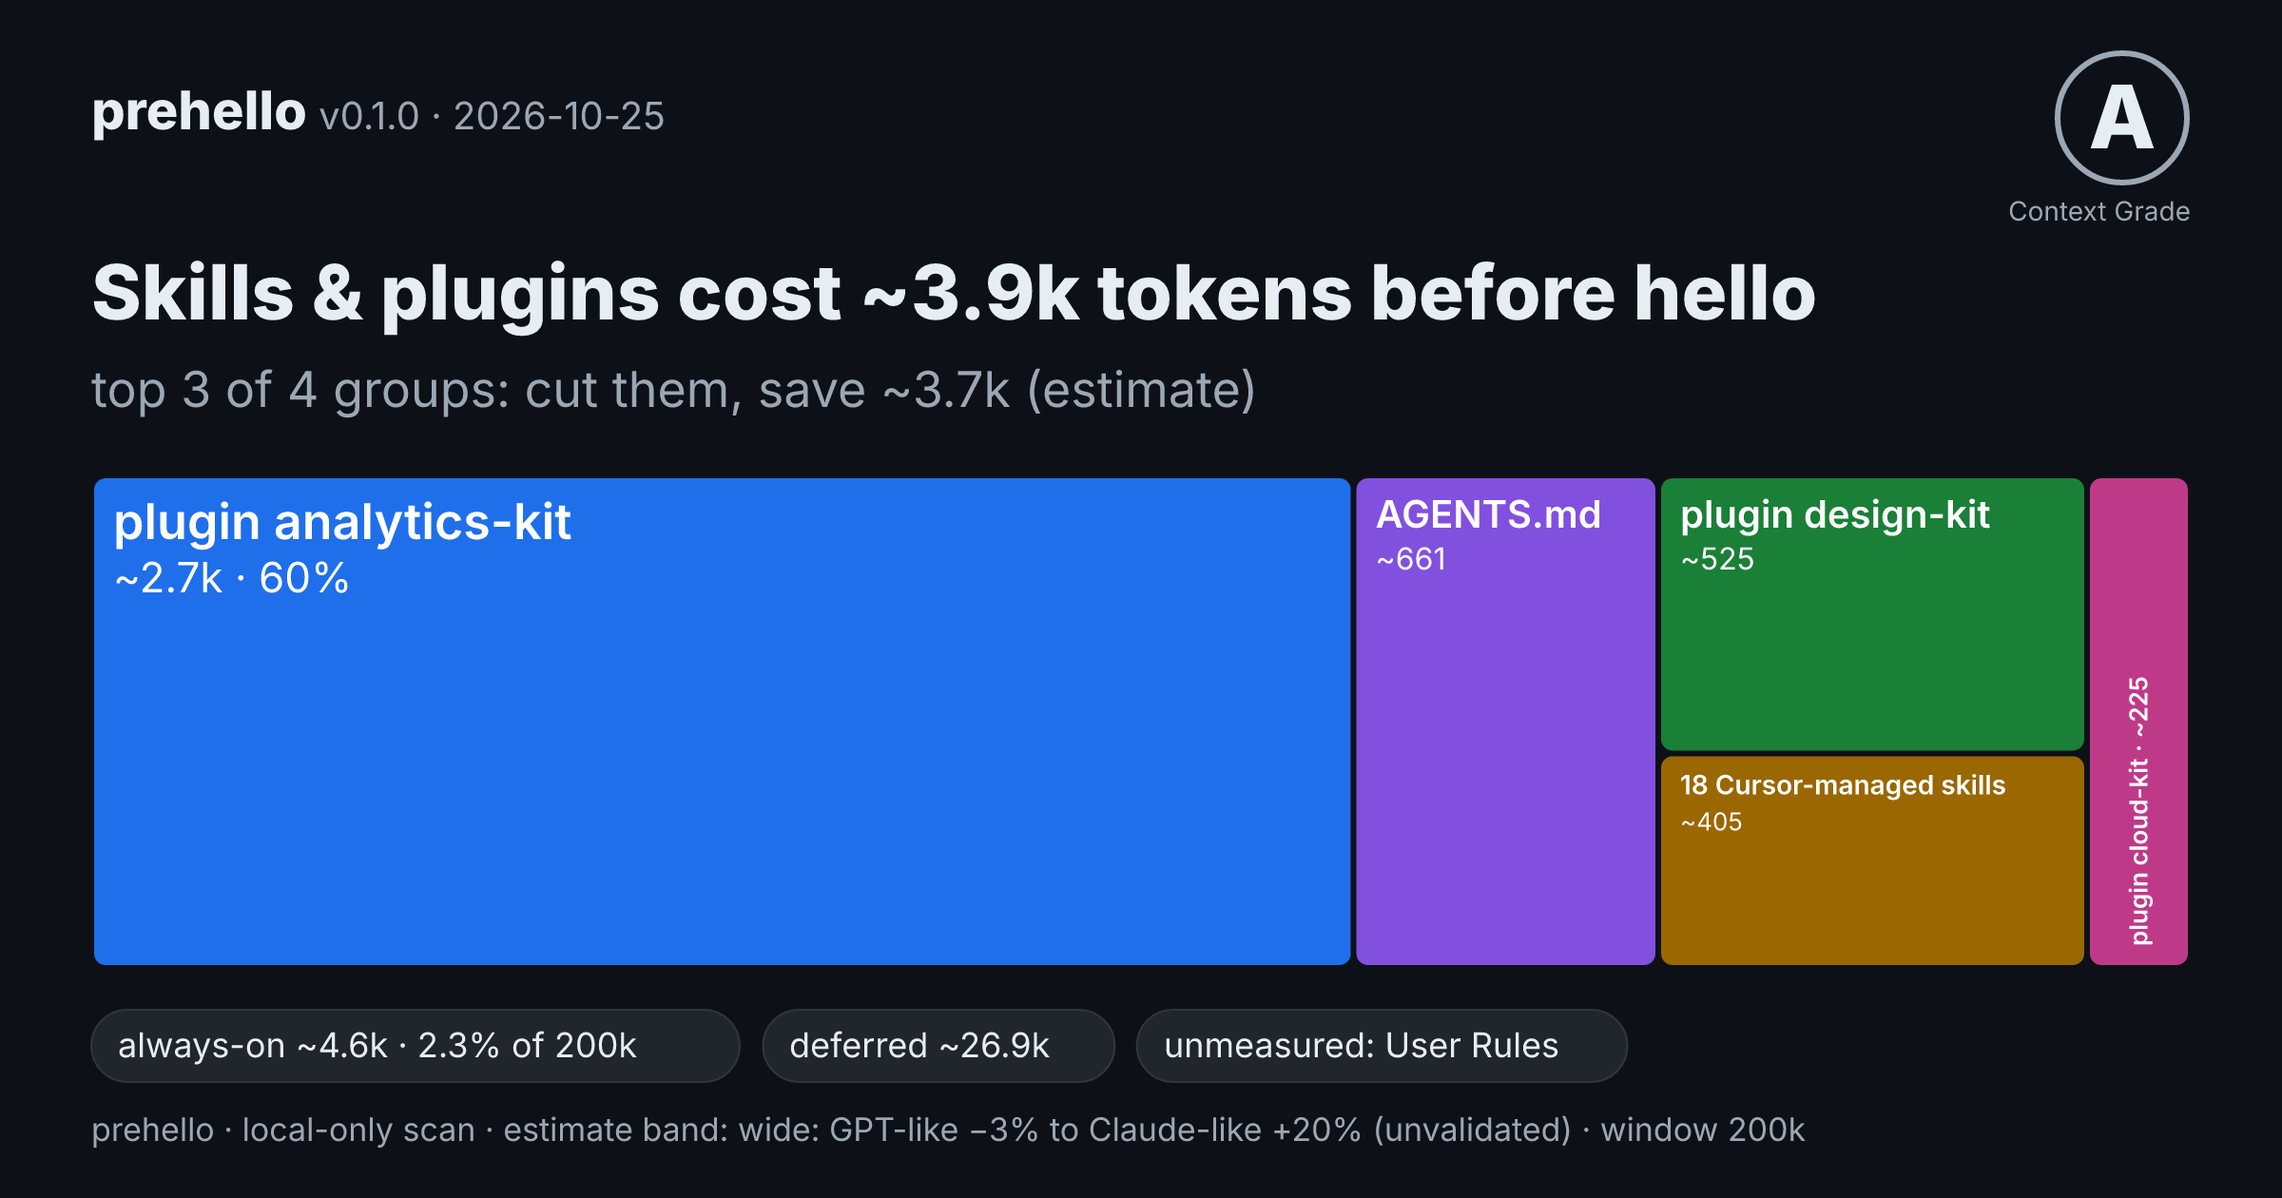
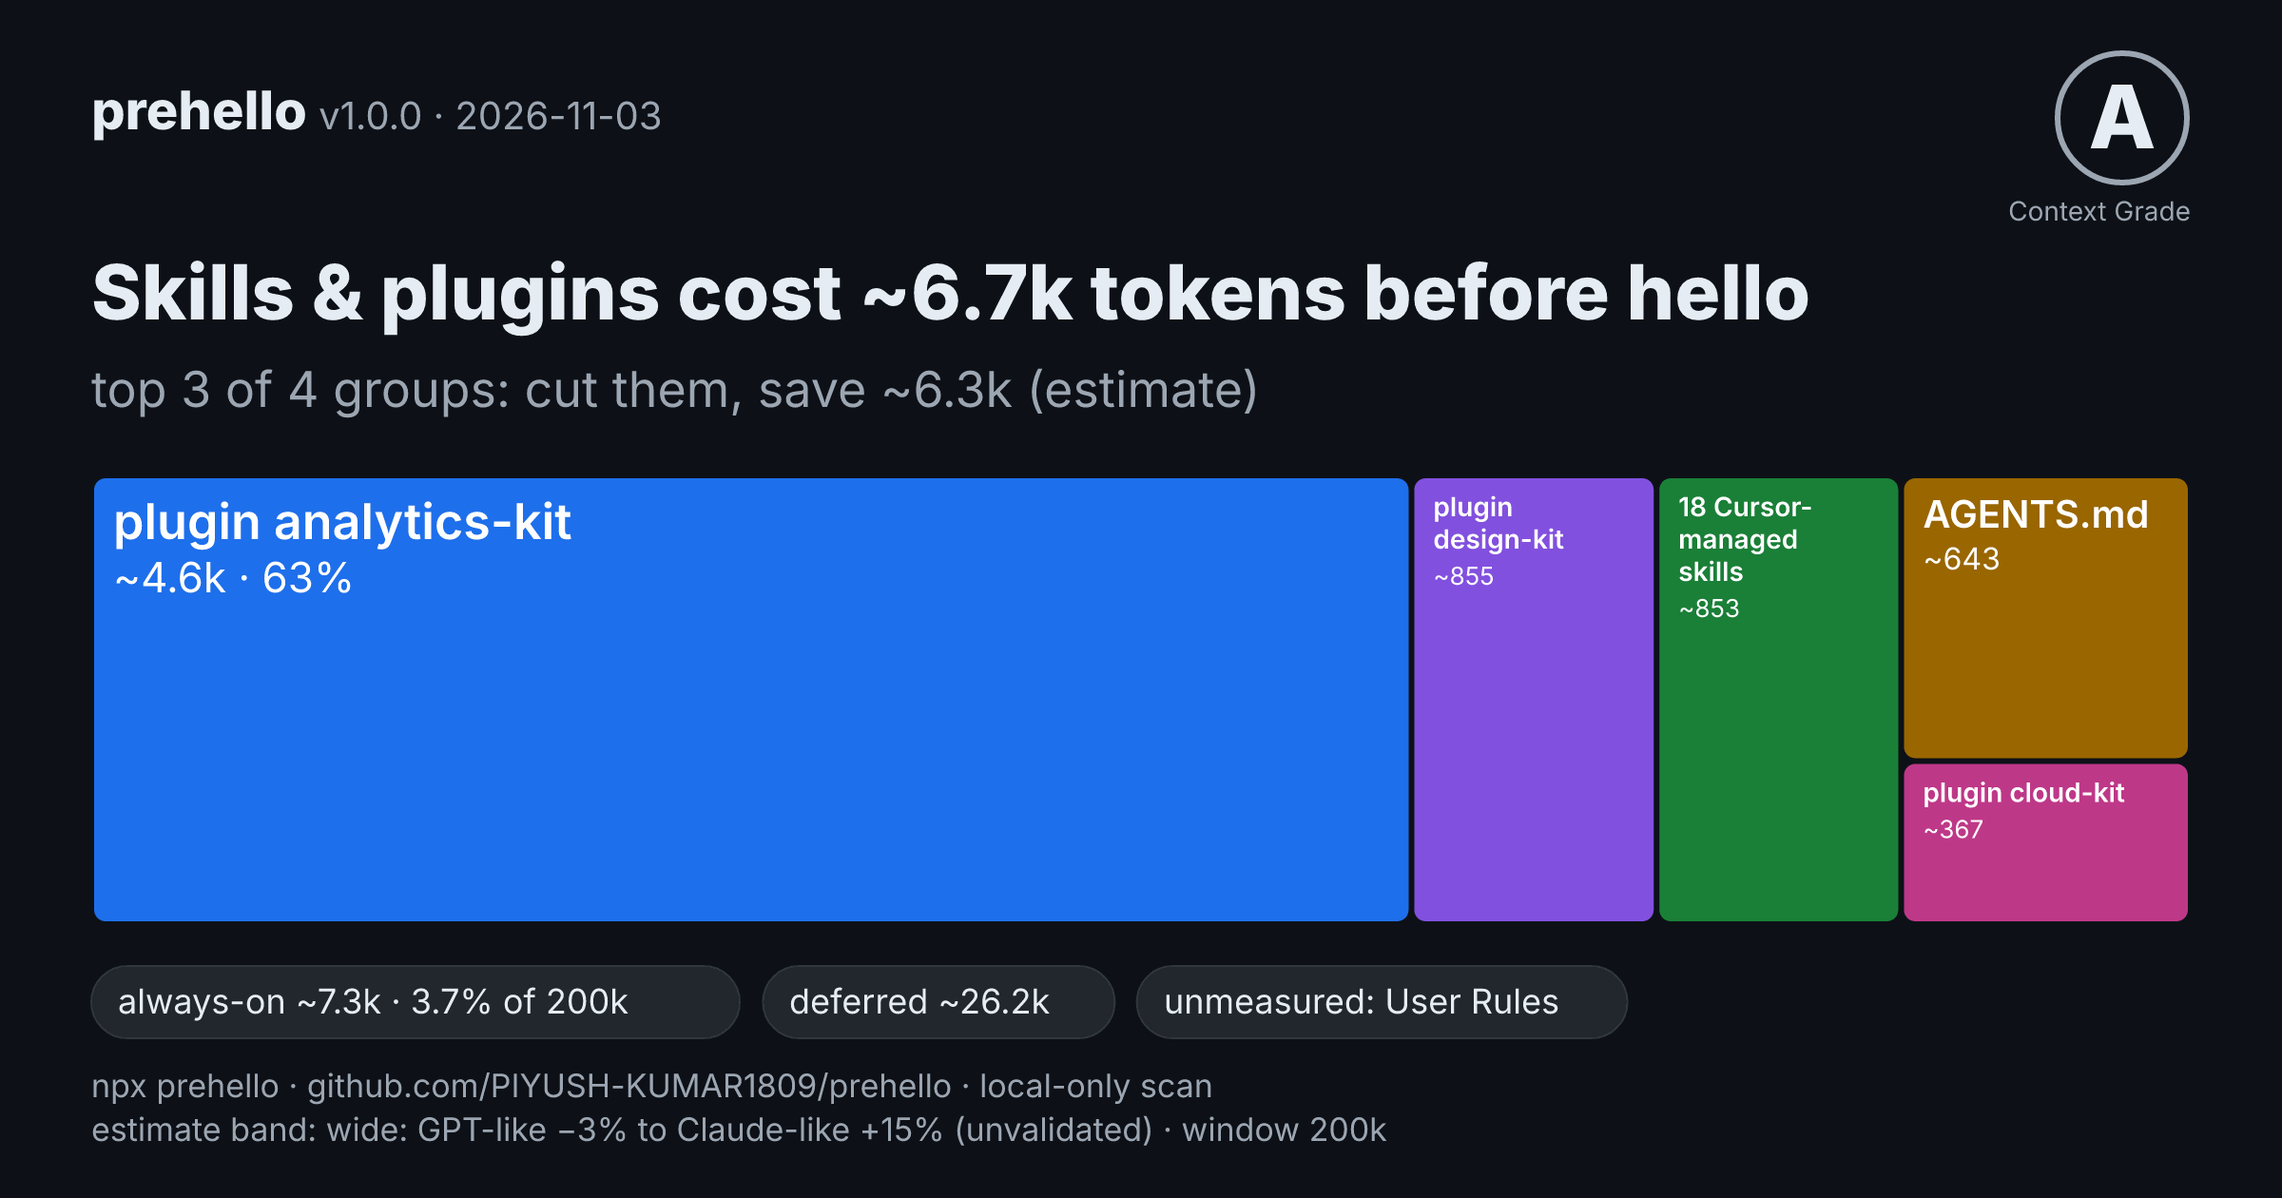
docs: refresh README with 1.0 screenshots and benchmark numbers; fix PR comment summary; fix Dependabot config

diff --git a/src/diff.ts b/src/diff.ts
@@ -138,7 +138,7 @@ export function renderDiffMarkdown(d: DiffResult, opts: { threshold?: number } =
     for (const a of d.agents) out.push(`| ${mdCode(a.name, true)} | ${cell(a.base)} | ${cell(a.head)}${a.lowerBound ? " (at least)" : ""} | **${signedTok(a.delta)}**${a.deltaPct !== null && a.delta ? ` (${a.deltaPct > 0 ? "+" : ""}${a.deltaPct}%)` : ""} |`);
     out.push("");
     for (const a of d.agents.filter((x) => x.changes.length)) {
-      out.push(`<details><summary>${mdCode(a.name)}: ${a.changes.length + a.moreChanges} changed item(s)</summary>`, "", "| Change | Item | Base | Head |", "|---:|---|---:|---:|");
+      out.push(`<details><summary>${summaryText(a.name)}: ${a.changes.length + a.moreChanges} changed item(s)</summary>`, "", "| Change | Item | Base | Head |", "|---:|---|---:|---:|");
       for (const c of a.changes) out.push(`| ${signedTok(c.delta)} | ${chg(c)} ${mdCode(c.label, true)} | ${cell(c.base)} | ${cell(c.head)} |`);
       if (a.moreChanges) out.push(`| | … ${a.moreChanges} more | | |`);
       out.push("", "</details>", "");
@@ -164,4 +164,12 @@ export function diffJson(d: DiffResult, threshold?: number): object {
 export function badgeJson(name: string, est: number | null, lowerBound: boolean): object {
   const color = est === null ? "lightgrey" : est < 5000 ? "brightgreen" : est < 15000 ? "green" : est < 30000 ? "yellow" : est < 60000 ? "orange" : "red";
   return { schemaVersion: 1, label: "context before hello", message: est === null ? "unmeasured" : `${lowerBound ? "≥" : "~"}${fmtTok(est)} tokens (${name})`, color };
+}
+
+/** Plain text for inside <summary>: GitHub does not render Markdown there, so no backticks; HTML-escaped. */
+function summaryText(name: string): string {
+  let t = name.replace(/[\u0000-\u001f\u007f-\u009f\u200b-\u200f\u2028-\u202e\u2060-\u2069\ufeff]+/g, " ").replace(/\s+/g, " ").trim();
+  if (t.length > 80) t = t.slice(0, 77) + "...";
+  if (!t) t = "(unnamed)";
+  return t.replace(/&/g, "&amp;").replace(/</g, "&lt;").replace(/>/g, "&gt;").replace(/"/g, "&quot;").replace(/@/g, "&#64;").replace(/#/g, "&#35;");
 }

diff --git a/test/diff.test.ts b/test/diff.test.ts
@@ -41,6 +41,11 @@ describe("diffSnapshots", () => {
     expect(same.agents[0].changes).toEqual([]);
     expect(renderDiffMarkdown(same)).toMatch(/No change in always-on context/);
   });
+  it("Markdown: <summary> holds plain escaped text, no backticks", () => {
+    const d = diffSnapshots(snap([{ id: "claude-code", always: 0, items: [] }]), snap([{ id: "claude-code", always: 5, items: [["./a", 5]] }]));
+    const line = renderDiffMarkdown(d).split("\n").find((l) => l.includes("<summary>"))!;
+    expect(line).toBe("<details><summary>Claude Code: 1 changed item(s)</summary>");
+  });
   it("caps the item list at 10 and says how many more", () => {
     const items: Array<[string, number]> = Array.from({ length: 14 }, (_, i) => [`./f${i}.md`, i + 1]);
     const d = diffSnapshots(snap([{ id: "cursor", always: 0, items: [] }]), snap([{ id: "cursor", always: 105, items }]));

diff --git a/README.md b/README.md
@@ -10,92 +10,81 @@
   <img src="https://img.shields.io/badge/platform-linux%20%7C%20macos%20%7C%20windows-lightgrey" alt="Linux, macOS and Windows">
 </p>
 
-<p align="center">
-  <img src="docs/sample-card-cursor.png" width="760" alt="A prehello share card: 'Skills and plugins cost ~3.9k tokens before hello', with a treemap of which plugins and files they come from">
-  <br>
-  <sub>A share card (<code>--card=card.png</code>). Sample data shaped like a real Cursor setup, not a real machine.</sub>
-</p>
-
-Every Claude Code, Cursor, Codex, GitHub Copilot or Gemini CLI session starts with a pile of rules, skills, plugin listings and MCP servers already sitting
-in the context window, before you type a word. **prehello** scans your repo and your home-directory agent config and tells you
-**how many tokens that is, which plugin or skill folder is responsible, and roughly what removing the top few would save.**
+Every **Claude Code, Cursor, Codex, GitHub Copilot and Gemini CLI** session starts with rules, skills, plugin listings and MCP servers already
+in the context window, before you type a word. **prehello** scans your repo and your user-level agent config and tells you
+**how many tokens that is, which plugin or file is responsible, and roughly what removing the top few would save.**
 
 - **Local and read-only.** No network, no telemetry, no API key, no child processes. Nothing leaves your machine.
-- **Honest numbers.** Every count is an estimate (`~`). What it cannot measure is listed, never shown as 0.
-- **Actionable.** A ranked "what to cut" list, a share card, a Markdown report, SARIF for code scanning, and a `--max-tokens` CI gate.
-
-## Try it
+- **Honest numbers.** Every count is an estimate (`~`) with a published error band. What it cannot measure is listed, never shown as 0.
+- **Actionable.** A ranked "what to cut" list, a share card, a PR comment on every pull request, a badge, SARIF and a `--max-tokens` CI gate.
 
 ```sh
-npx prehello                                   # scan the current folder plus your user-level agent config
-npx prehello ~/code/your-project               # scan a specific project
-npx prehello ~/code/your-project --card=card.png  # also write a PNG share card
-npm install -g prehello                        # or install it once and run `prehello`
+npx prehello                          # this folder plus your user-level agent config
+npx prehello ~/code/your-project      # a specific project
+npx prehello --card=card.png          # also write a PNG share card
 ```
 
-Needs Node 22 or newer, on Linux, macOS or Windows.
-
-<details>
-<summary>Run from source instead</summary>
-
-```sh
-git clone https://github.com/PIYUSH-KUMAR1809/prehello.git
-cd prehello
-npm ci && npm run build
-node dist/cli.js ~/code/your-project
-```
-
-</details>
+Needs Node 22 or newer, on Linux, macOS or Windows. `npm install -g prehello` installs it as `prehello`.
 
 ## What it prints
 
-A real run on bundled **fixture** data (`test/fixtures/plugin-heavy`: three invented plugins plus a few skills), not anyone's real numbers:
+<p align="center"><img src="https://raw.githubusercontent.com/PIYUSH-KUMAR1809/prehello/main/docs/images/scan.png" width="760" alt="prehello terminal output: per-agent totals for Claude Code, Cursor, Codex, GitHub Copilot and Gemini CLI, the what-to-cut list, measured vs not measured, and top offenders"></p>
 
-```text
-prehello 0.1.0 · this folder + user config · window 200k
-Token counts are ESTIMATES (o200k BPE with per-agent scaling factors), shown with
-~. Not exact for any model.
+<sub>A real run of prehello 1.0 on a demo setup built from the bundled test fixtures (`test/fixtures/`), not anyone's real machine.</sub>
 
-Before your first message: Cursor ~5.2k tokens
+Below this first screen come a per-agent breakdown (always-on / conditional / deferred / on-demand), findings, and a Context Grade
+(a heuristic of this tool, not a standard). The full output is in [docs/REFERENCE.md](docs/REFERENCE.md).
 
-What to cut (estimates)
-  Cursor  skills, plugins and MCP servers add ~4.7k tokens before hello: 91% of
-          the measured always-on total, in 4 groups.
-          Top 3 groups = 95% of that. Removing them would save about 4.5k tokens
-          (2.2% of a 200k window); estimate, not a promise.
-           1. plugin analytics-kit (40 skills)               ~2.3k    45%
-           2. plugin design-kit (24 skills)                  ~1.4k    26%
-           3. plugin cloud-kit (14 skills)                    ~765    15%
+> **Read the numbers as "what YOUR config adds".** The agent's built-in system prompt and tool definitions are not on disk, so no static
+> scanner can see them. prehello's total is the part *you* control. For the exact live total in one Claude Code session, use `/context`.
 
-Measured vs. not measured (always-on items)
-  Cursor  measured 4 of 4 (100%): 2 skills listings, 1 instruction file, 1 rule
-...
+**The share card** (`--card=card.png`) holds no paths or file contents:
+
+<p align="center"><img src="https://raw.githubusercontent.com/PIYUSH-KUMAR1809/prehello/main/docs/images/card.png" width="640" alt="prehello share card: Skills and plugins cost at least ~4.9k tokens before hello, with a treemap of plugins"></p>
+
+## What 559 public repos load before hello
+
+The [State of agent context 2026](docs/BENCHMARK.md) benchmark checked 2,041 public GitHub repos; 559 ship agent files. prehello ran on each with an
+empty HOME, so only the repo's own files count.
+
+- The median repo adds **~2.2k tokens** before hello. p90 is ~8.4k, the largest ~53k.
+- **20.4%** have both CLAUDE.md and AGENTS.md at the root, so Claude Code ignores the AGENTS.md.
+- **16.6%** have an instruction file longer than the agent's documented guideline; **3.4%** have an AGENTS.md chain Codex truncates at 32 KiB.
+- Stars don't predict size (Spearman 0.05), but they do predict adoption: **47%** of 10k+ star repos ship agent files, vs **17%** at 20–99 stars.
+
+<p align="center">
+  <img src="https://raw.githubusercontent.com/PIYUSH-KUMAR1809/prehello/main/benchmark/charts/always-on-by-agent.png" width="420" alt="Always-on tokens per agent across 559 repos">
+  <img src="https://raw.githubusercontent.com/PIYUSH-KUMAR1809/prehello/main/benchmark/charts/mistakes.png" width="420" alt="Common agent-file mistakes across 559 repos">
+</p>
+
+Data, scripts and how to reproduce it are in [`benchmark/`](benchmark/) and [docs/BENCHMARK.md](docs/BENCHMARK.md).
+
+## A PR comment on every pull request
+
+```yaml
+# .github/workflows/prehello.yml
+on: pull_request
+permissions: { contents: read, pull-requests: write }
+jobs:
+  context-diff:
+    runs-on: ubuntu-latest
+    steps:
+      - uses: actions/checkout@v4
+        with: { fetch-depth: 0, persist-credentials: false }
+      - uses: PIYUSH-KUMAR1809/prehello@v1
+        with: { fail-above: 2k }   # optional
 ```
 
-That is the first screen. Below it come a per-agent breakdown (always-on / conditional / deferred / on-demand), what could not be measured, and a
-Context Grade (a heuristic of this tool, not a standard). The full output is in [docs/REFERENCE.md](docs/REFERENCE.md).
+<p align="center"><img src="https://raw.githubusercontent.com/PIYUSH-KUMAR1809/prehello/main/docs/images/pr-comment.png" width="640" alt="The prehello PR comment: a table of base, head and change per agent"></p>
 
-> **Read the numbers as "what YOUR config adds".** The agent's own built-in system prompt and built-in tool definitions are **not** counted:
-> they are usually the largest fixed chunk of the context window and are not on disk, so no static scanner can see them. prehello's total is the part
-> *you* control. For the exact live total in one Claude Code session, use `/context`.
+One sticky comment per PR, updated on every push. Fork PRs fall back to the job summary. Details, inputs and the README badge
+(`--badge badge.json`, a shields.io endpoint) are in [docs/github-action.md](docs/github-action.md).
 
-### On one real machine
+## How accurate is it?
 
-The author's own Cursor setup, one run of prehello 0.1.0 on 2026-10-25. **One machine, estimates, not reproducible from this repo.**
-
-| What | Estimate, before hello |
-| --- | --- |
-| Skills, plugins and MCP servers | **at least ~14.3k tokens** (a lower bound: items prehello cannot measure, such as Cursor User Rules, are not in it) |
-| Cut list, top 3 of 6 groups | `plugin posthog` ~10.3k (72%), `plugin figma` ~1.7k, 18 Cursor-managed skills ~1.3k: removing them would save about **~13.2k** |
-
-Almost all of it is skill listings, mostly from one plugin. Every enabled skill puts its name and description in the context on every session,
-whether you use it or not. That is what the cut list is for, and removing a plugin you actually use costs you the plugin.
-
-### Across 559 public repositories
-
-The [State of agent context 2026](docs/BENCHMARK.md) benchmark ran prehello with an empty HOME on 559 public GitHub repositories that ship agent files.
-The median repo adds **~2.2k tokens** before hello (p90 ~8.4k, max ~53k). 20% have both CLAUDE.md and AGENTS.md at the root, so Claude Code ignores AGENTS.md,
-and 17% have an instruction file longer than the agent's documented guideline. Data and scripts are in [`benchmark/`](benchmark/).
+Counts use the o200k tokenizer with per-agent factors from published measurements. Bands: Codex ±3%, Claude Code ±15%,
+Cursor and Copilot −3% to +15% (model unknown), Gemini CLI −3% to +64% (unvalidated). Sources and caveats are in [docs/ACCURACY.md](docs/ACCURACY.md).
+`prehello calibrate --file ctx.txt` compares the estimate with your own Claude Code `/context` reading, per category.
 
 ## Outputs
 
@@ -120,7 +109,7 @@ and exits 1 without a stack trace, and the SVG card and everything else keep wor
 
 ## Agents covered
 
-Claude Code, Cursor, Codex, GitHub Copilot (CLI and VS Code), Gemini CLI, and plain `AGENTS.md` files. Details of what is scanned for each are in [docs/REFERENCE.md](docs/REFERENCE.md). Not yet: Windsurf, Cline.
+Claude Code, Cursor, Codex, GitHub Copilot (CLI and VS Code), Gemini CLI, and plain `AGENTS.md` files. What is scanned for each is in [docs/REFERENCE.md](docs/REFERENCE.md). Not yet: Windsurf, Cline.
 
 ## FAQ
 
@@ -144,7 +133,7 @@ runs in CI, and ranks *which plugin or skill folder* to remove.
 
 **Why does it say "Skipped N fixture folders"?** A repo that tests agent tooling keeps sample `AGENTS.md`, `CLAUDE.md`, `.cursor/rules` and skills under `test/fixtures/` and similar. No agent loads those, so prehello skips such folders by default and says how many it skipped (only folders where it found agent files). `--include-fixtures` counts them; scanning a folder that is itself inside a fixtures folder never skips anything.
 
-**Does it work on Windows?** Yes. CI runs the full suite on Ubuntu, Windows and macOS with Node 22 and 24. See [docs/REFERENCE.md](docs/REFERENCE.md).
+**Does it work on Windows?** Yes. CI runs the full suite on Ubuntu, Windows and macOS with Node 22, 24 and 26. See [docs/REFERENCE.md](docs/REFERENCE.md).
 
 ## Limitations
 

diff --git a/docs/REFERENCE.md b/docs/REFERENCE.md
@@ -4,6 +4,10 @@ Long-form details moved out of the README. Back to the [README](../README.md).
 
 Everything here describes the current CLI. Commands below say `prehello`; from a source checkout run `node dist/cli.js` instead.
 
+The "What to cut" list ranks the plugin, skill folder or MCP server groups to remove first (a 1.0 run on a demo setup built from the test fixtures):
+
+![The what-to-cut list](images/what-to-cut.png)
+
 <details>
 <summary><b>Full sample output (fixture, not a real machine)</b></summary>
 
@@ -306,7 +310,7 @@ The number goes to stderr, so `--json` on stdout stays valid. Exit code 2 wins o
   Examples of `assumed`: how Cursor and Codex format their skills listing and what it costs, Cursor's `~/.cursor/skills-cursor`, Cursor plugin install state,
   nested `.cursor/rules`, and whether Codex loads MCP schemas upfront.
 - **The Context Grade is a heuristic of this tool**, not a standard. `prehello explain grade` prints the exact rubric.
-- **Windows and macOS:** the full test suite runs in CI on Ubuntu, Windows and macOS with Node 22 and 24 (Node 18, 20 and 22 up to 0.1.0, green on 2026-10-25) (GitHub-hosted runners only; not tried on a range
+- **Windows and macOS:** the full test suite runs in CI on Ubuntu, Windows and macOS with Node 22, 24 and 26 (Node 18, 20 and 22 up to 0.1.0, green on 2026-10-25) (GitHub-hosted runners only; not tried on a range
   of real Windows consoles, locales or corporate setups). Windows specifics (USERPROFILE home, drive letters, UNC, backslash globs, CRLF/BOM/UTF-16 files, reserved device names, case-insensitive file systems)
   are covered by tests, partly by simulation. Only the three listed agents plus plain `AGENTS.md` are covered.
 

diff --git a/CHANGELOG.md b/CHANGELOG.md
@@ -31,6 +31,9 @@ Planned as 1.0.0. The version in `package.json` stays 0.1.0 until the release.
 - When a skipped fixture folder held agent files, the terminal report, Markdown and SARIF (`properties.prehello.fixtureFoldersSkipped`) say how many were skipped (a count, no paths) and `--json` has `scan.fixturesSkipped` (absent when 0). Not a warning; the exit code is unchanged.
 - A scan whose root is itself inside a fixtures folder never skips anything, and the scanned project's own top-level files are never skipped.
 
+#### Docs
+- README rewritten for 1.0: all five agents up front, benchmark numbers and charts, the GitHub Action snippet, error bands, and new screenshots in `docs/images/` (terminal scan, what-to-cut list, PR comment, share card) from real runs on a demo setup built from the test fixtures. Sample cards regenerated. `prehello diff --markdown`: the per-agent `<summary>` line is plain escaped text (GitHub does not render Markdown backticks there).
+
 #### Release and repository tooling
 - `release.yml`: pushing a `vX.Y.Z` tag (for the next release; the moving `v1` Action tag and pre-release tags do not trigger it) runs typecheck, tests and the install smoke test, checks that the tag matches `package.json`, then publishes to npm with provenance.
 - Dependabot (npm and GitHub Actions, weekly), CodeQL and OpenSSF Scorecard workflows.

diff --git a/docs/github-action.md b/docs/github-action.md
@@ -25,13 +25,9 @@ jobs:
 
 `@v1` is a moving major tag (maintainers: `git tag -f v1 vX.Y.Z && git push -f origin v1` after a release). Only full `vX.Y.Z` tags trigger the npm release workflow, so moving `v1` publishes nothing.
 
-The comment looks like:
+The comment looks like this (a real `prehello diff --markdown` run on a demo repo where a PR grows CLAUDE.md; rendered GitHub-style):
 
-> **prehello: context before hello**
->
-> | Agent | Base | Head | Change |
-> |---|---:|---:|---:|
-> | `Claude Code` | 6 | 778 | **+772** |
+![The prehello PR comment](images/pr-comment.png)
 
 ## Inputs
 
